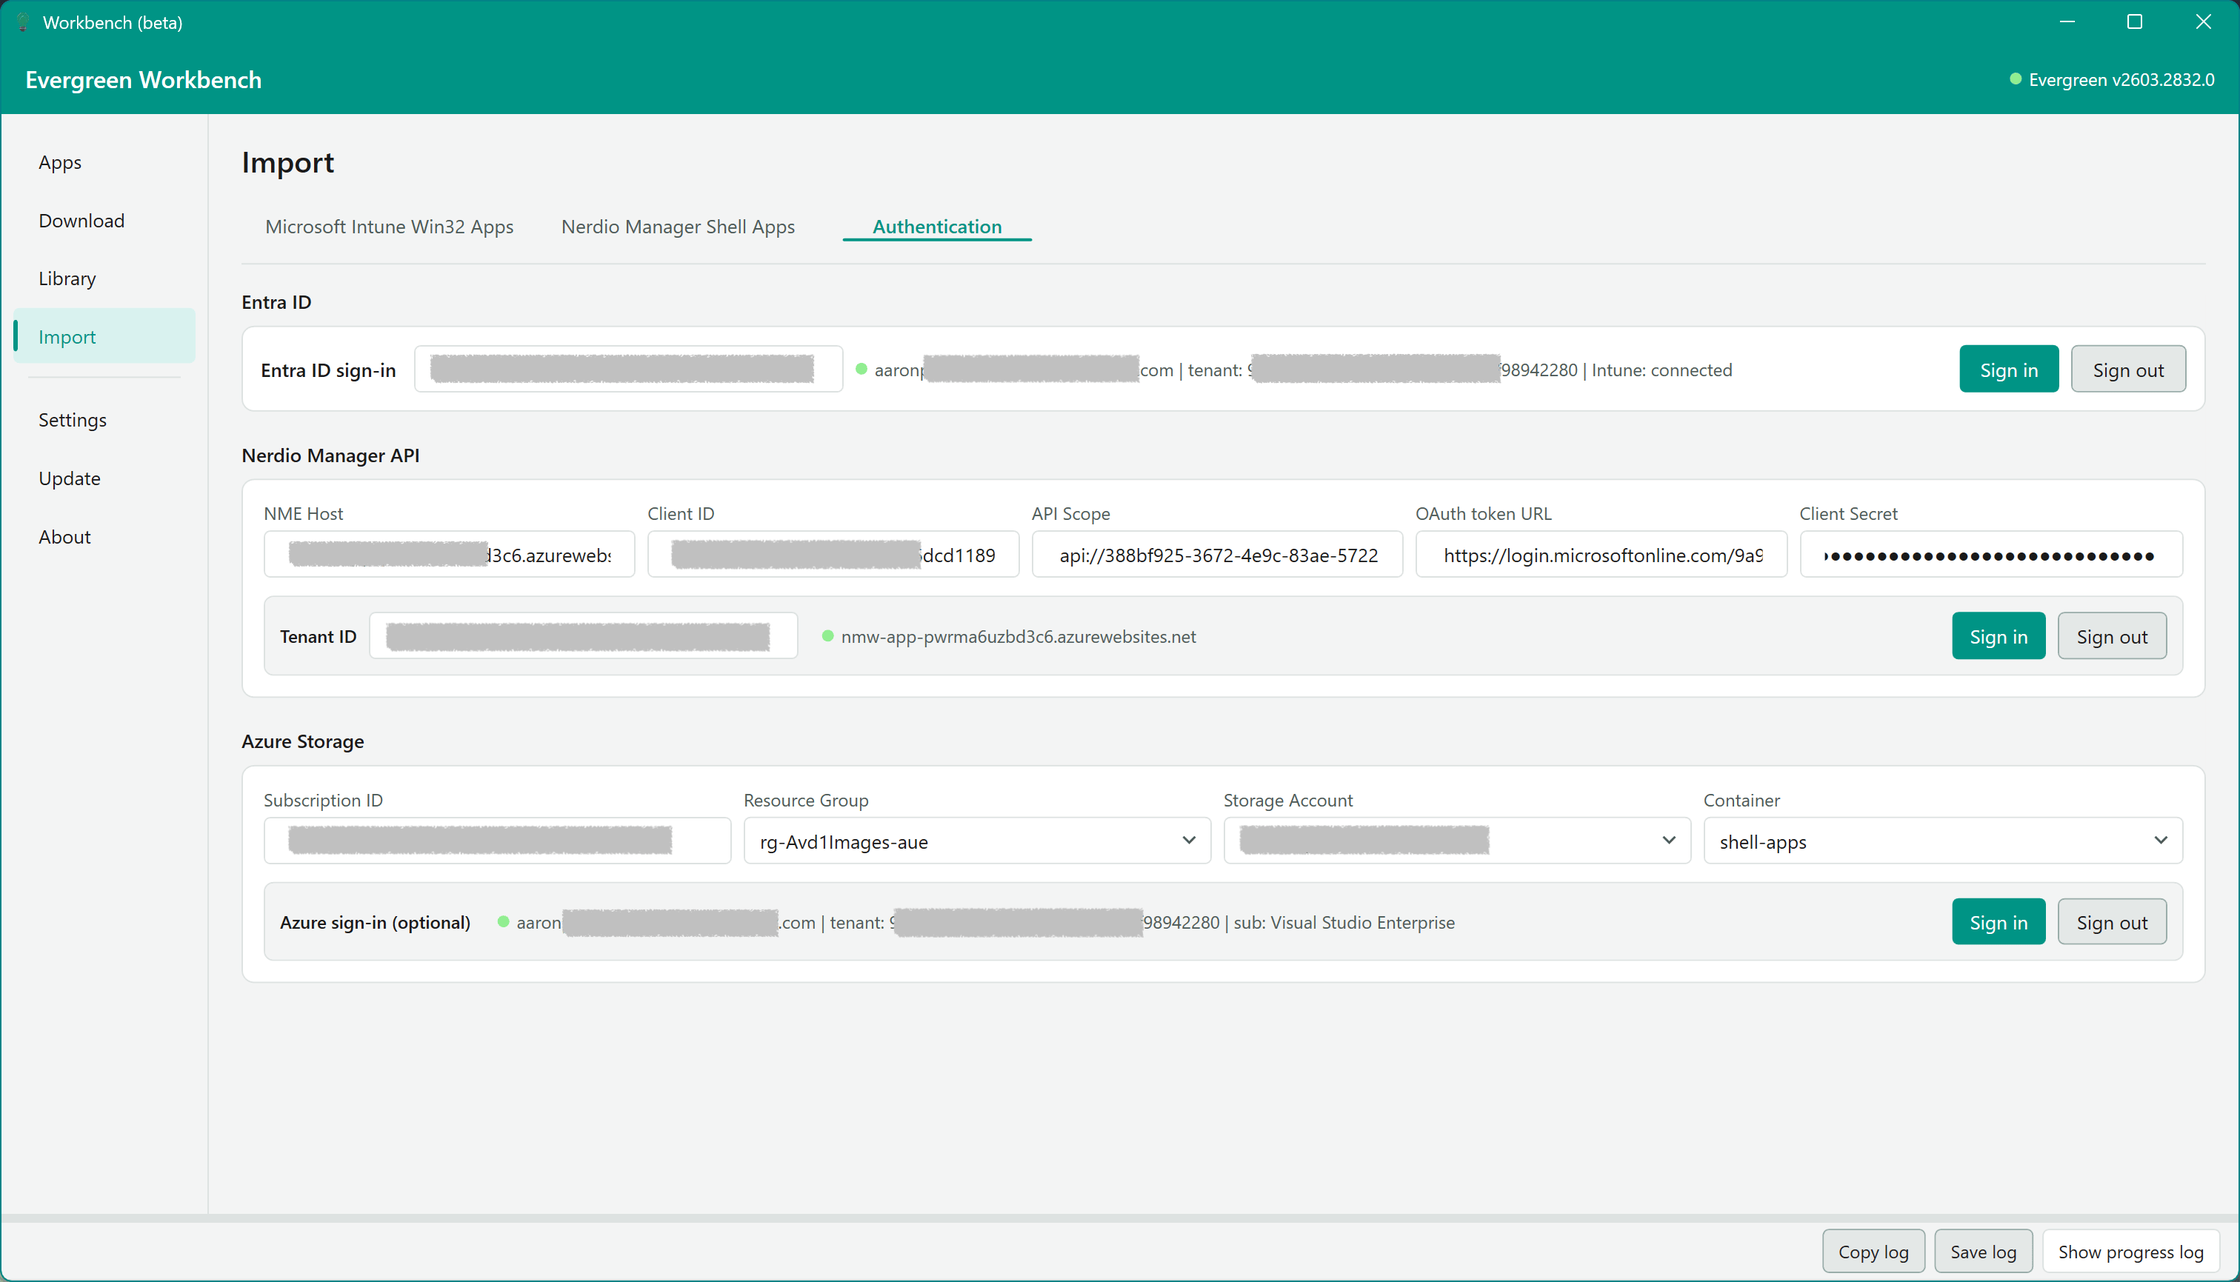
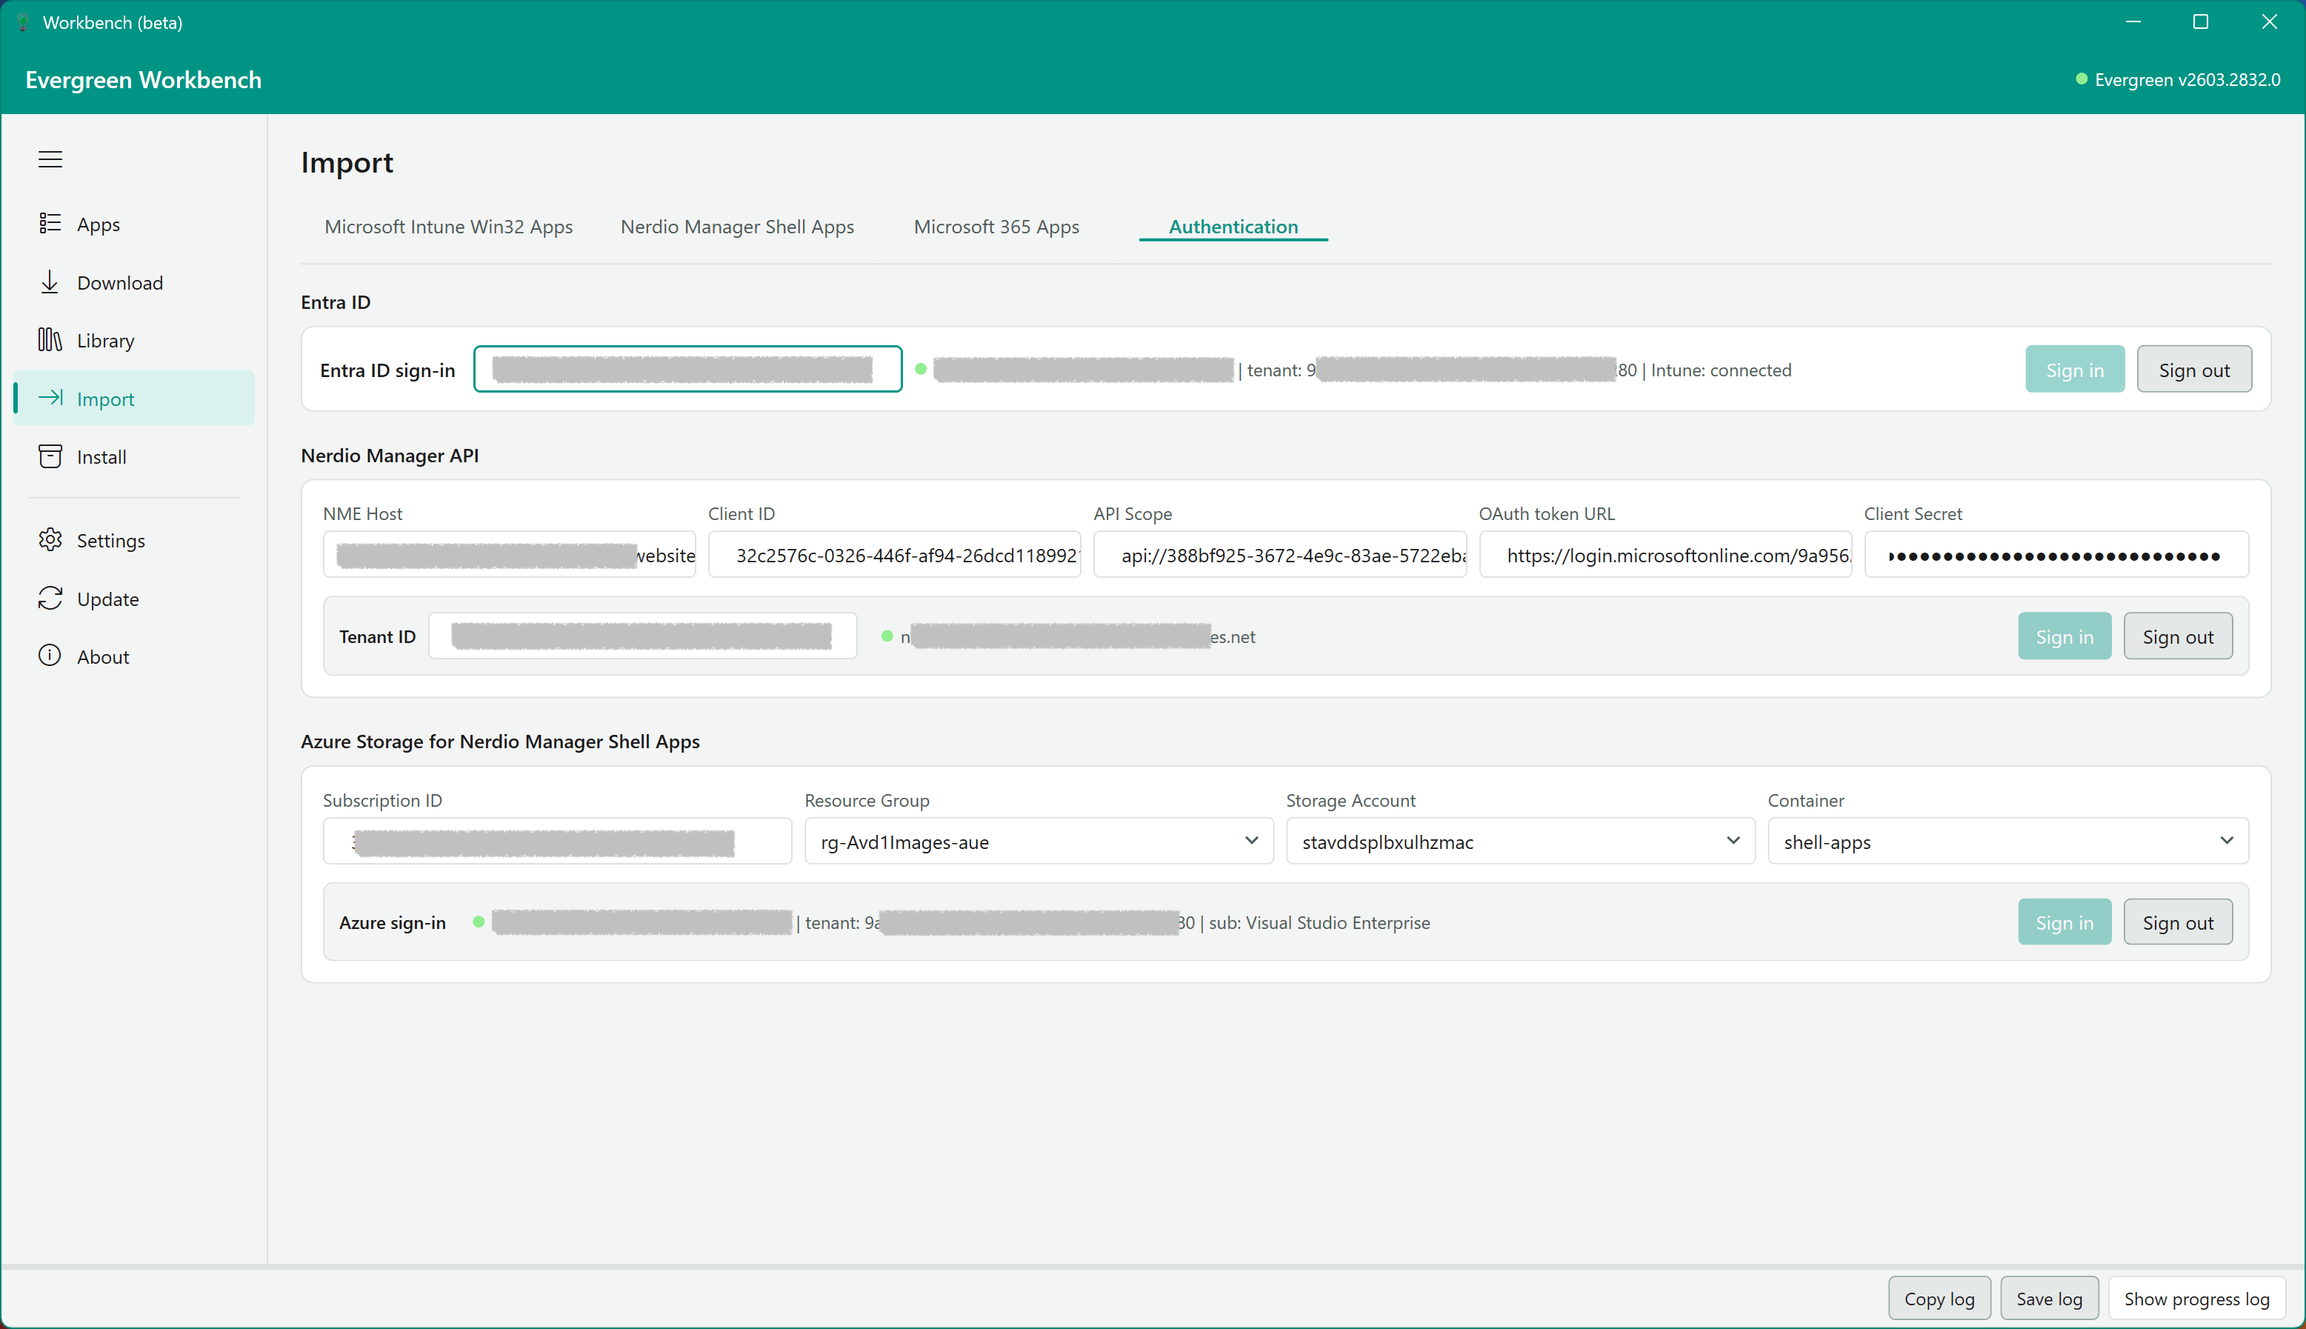
Update workbench documentation

diff --git a/docs/workbench-desktop.md b/docs/workbench-desktop.md
@@ -16,21 +16,23 @@ Import-Module EvergreenUI
 Start-EvergreenWorkbench
 ```
 
-The UI opens to the Apps view by default. You can change the startup view and other preferences in [Settings](#settings).
+The Workbench restores the last view you used when you reopen it. If the saved view is disabled, it falls back to the Apps View.
 
-## Apps view
+## Apps View
 
-The Apps view displays all 500+ applications supported by the Evergreen module in a searchable data grid. Select an application from the list on the left to view version and download metadata returned by `Get-EvergreenApp`.
+The Apps View displays all 500+ applications supported by the Evergreen module in a searchable data grid. Select an application from the list on the left to view version and download metadata returned by `Get-EvergreenApp`.
 
-![The Apps view showing Microsoft applications with channel, release, architecture, and file type filters](/img/ui/evergreen-workbench-apps.png)
+![The Apps View showing Microsoft applications with channel, release, architecture, and Type filters](/img/ui/evergreen-workbench-apps.png)
 
 Use the search box at the top of the application list to filter by name. The data grid on the right shows version details including Version, Date, Channel, Release, Architecture, Type, and URI.
 
-### Dynamic filters
+You can star frequently used applications from the left list. Favourites are pinned to the top of the list and saved in your local Workbench settings.
 
-When you select an application, the filter panel updates automatically based on the properties that application returns. For example, selecting Adobe Acrobat Reader DC displays filters for Language, Architecture, and File type.
+### Dynamic Filters
 
-![Dynamic filters for Adobe Acrobat Reader DC showing Language, Architecture, and File type controls](/img/ui/evergreen-workbench-apps-filter.png)
+When you select an application, the filter panel updates automatically based on the properties that application returns. For example, selecting Adobe Acrobat Reader DC displays filters for Language, Architecture, and Type.
+
+![Dynamic Filters for Adobe Acrobat Reader DC showing Language, Architecture, and Type controls](/img/ui/evergreen-workbench-apps-filter.png)
 
 Available filter properties vary by application and can include:
 
@@ -45,13 +47,17 @@ Available filter properties vary by application and can include:
 
 Select values in the filter panel to narrow down the results. Use **Clear filters** to reset, or **Export to CSV** to save the filtered results.
 
-## Download view
+The versions grid supports column sorting. Click a column header to sort ascending, then click again to sort descending.
 
-To download application installers, select versions in the Apps view and click **Add to download queue**. Switch to the Download view to manage and start downloads.
+You can also right-click a column header to show or hide optional columns. Structural columns such as Version and URI remain visible.
 
-![The Download view showing a queued download for Adobe Acrobat Reader DC](/img/ui/evergreen-workbench-download.png)
+## Download View
 
-The Download view shows the queue with Status, App, Version, Architecture, and URI columns. Use the toolbar to:
+To download application installers, select versions in the Apps View and click **Add to download queue**. Switch to the Download View to manage and start downloads.
+
+![The Download View showing a queued download for Adobe Acrobat Reader DC](/img/ui/evergreen-workbench-download.png)
+
+The Download View shows the queue with Status, App, Version, Architecture, URI, and Path columns. The Path column is filled after a download completes. Use the toolbar to:
 
 - **Remove selected** - remove items from the queue
 - **Clear queue** - remove all items
@@ -60,13 +66,15 @@ The Download view shows the queue with Status, App, Version, Architecture, and U
 
 A progress bar at the bottom tracks the current download. Downloads are processed sequentially and in queue order.
 
-## Library view
+The download queue grid supports column sorting.
 
-If you have an existing [Evergreen library](/newlibrary), the Library view provides a GUI for browsing and updating it. Enter or browse to your library path to load the library contents.
+## Library View
 
-![The Library view showing library contents and version details for Microsoft Edge](/img/ui/evergreen-workbench-library.png)
+If you have an existing [Evergreen library](/newlibrary), the Library View provides a GUI for browsing and updating it. Enter or browse to your library path to load the library contents.
 
-The Library view displays:
+![The Library View showing library contents and version details for Microsoft Edge](/img/ui/evergreen-workbench-library.png)
+
+The Library View displays:
 
 - **Library contents** - a table of applications in the library with app name, version count, and path
 - **Selected app details** - version, URI, type, size, SHA256 hash, release, and file path for each version of the selected application
@@ -75,19 +83,19 @@ Use the toolbar to:
 
 - **Browse** - select a library path
 - **Open folder** - open the library directory
-- **New library** - create a new Evergreen library (`New-EvergreenLibrary`)
-- **Refresh library** - reload the library contents (`Get-EvergreenLibrary`)
-- **Update library** - download the latest versions into the library (`Start-EvergreenLibraryUpdate`)
+- **New Library** - create a new Evergreen library (`New-EvergreenLibrary`)
+- **Refresh Library** - reload the library contents (`Get-EvergreenLibrary`)
+- **Update Library** - download the latest versions into the library (`Start-EvergreenLibraryUpdate`)
 
-## Install view
+## Install View
 
 ::: warning In development
 The Install feature is in development and may not function as expected. Package definition details will be documented at a later date.
 :::
 
-The Install view loads package definitions from a directory, compares the defined application versions against what is currently installed on the machine, and allows you to install or update applications directly.
+The Install View loads package definitions from a directory, compares the defined application versions against what is currently installed on the machine, and allows you to install or update applications directly.
 
-![The Install view comparing installed and latest application versions](/img/ui/evergreen-workbench-install.png)
+![The Install View comparing installed and latest application versions](/img/ui/evergreen-workbench-install.png)
 
 Each row shows:
 
@@ -109,9 +117,11 @@ Use the toolbar to:
 If the Workbench is not running elevated, installers may prompt for UAC elevation.
 :::
 
-## Import tab
+## Import Tab
 
-The Import tab provides workflows for importing application packages into external platforms. It has three sub-tabs: **Microsoft Intune Win32 Apps**, **Nerdio Manager Shell Apps**, and **Authentication**.
+The Import Tab provides workflows for importing application packages into external platforms. It has four sub-tabs: **Microsoft Intune Win32 Apps**, **Nerdio Manager Shell Apps**, **Microsoft 365 Apps**, and **Authentication**.
+
+Import-related modules are loaded when you first open the Import Tab. Until required modules finish loading, sign-in and import actions remain disabled.
 
 ### Microsoft Intune Win32 Apps
 
@@ -121,9 +131,18 @@ The Intune import feature is in development and is not yet functional.
 
 Browse to a directory containing Intune package definitions, load them, and compare against the Win32 apps currently in your Intune tenant.
 
-![The Import tab showing Microsoft Intune Win32 Apps with package definitions and import status](/img/ui/evergreen-workbench-import-intune.png)
+![The Import Tab showing Microsoft Intune Win32 Apps with package definitions and import status](/img/ui/evergreen-workbench-import-intune.png)
 
-The data grid shows each package definition with its publisher, Intune version (if already imported), definition version, match status, update requirements, and available action (Import as new app or update existing). Use **Import as new Win32 app** to push selected packages to Intune.
+The data grid shows reconciliation rows with these columns: App, Publisher, Intune Version, Latest, Status, and Action.
+
+Action values indicate what to do next:
+
+- **Import new app** - definition is not in Intune yet
+- **Import new version and supersede** - app exists in Intune and needs an update
+- **Fix in definition** - duplicate definition GUID or other definition issue
+- **-** - no action required
+
+Use **Compare with Microsoft Intune** to build the reconciliation list, then use **Import Win32 app** to process selected actionable rows.
 
 ### Nerdio Manager Shell Apps
 
@@ -133,58 +152,94 @@ The Nerdio Manager Shell Apps import works but has not been validated in product
 
 Browse to a directory containing Nerdio Manager Shell App definitions, load them, and compare against the Shell Apps in your Nerdio Manager environment.
 
-![The Import tab showing Nerdio Manager Shell Apps with version comparison](/img/ui/evergreen-workbench-import-nerdio.png)
+![The Import Tab showing Nerdio Manager Shell Apps with version comparison](/img/ui/evergreen-workbench-import-nerdio.png)
 
-The data grid shows the status of each definition - whether it is matched to an existing Shell App, whether an update is available, and the current versus latest Evergreen version. The status bar summarises the comparison results. Use the toolbar to add new versions to existing Shell Apps or import new ones.
+The data grid shows the status of each definition - whether it is matched to an existing Shell App, whether an update is available, and the current versus latest Evergreen version. The status bar summarises the comparison results.
+
+Use **Compare with Nerdio Manager** to build the reconciliation list. Then use **Add new version to existing Shell App** or **Import Shell App** for the selected row.
+
+### Microsoft 365 Apps
+
+::: warning In development
+The Microsoft 365 Apps import feature is in development and should be validated in your environment before production use.
+:::
+
+Browse to a folder containing Office Deployment Tool XML configuration files and click **Load configurations**.
+
+![The Import Tab showing Microsoft 365 Apps package configurations and import actions](/img/ui/evergreen-workbench-import-m365.png)
+
+The grid shows each configuration with:
+
+- **Filename** - XML file name
+- **Display Name** - generated app display name
+- **Products** - parsed products and target details
+- **Status** - configuration validation result (for example Valid, No ID, or Invalid XML)
+
+Use the action bar to configure packaging and import:
+
+- **Channel** - selects the Microsoft 365 update channel used for package generation
+- **Company name** - required value injected into package metadata
+- **Import Nerdio Manager Shell App** - builds and imports the package to Nerdio Manager
+- **Import Microsoft Intune Win32 App** - builds and imports the package to Intune
+
+Connection indicators on this tab show both Microsoft Intune and Nerdio Manager authentication status.
 
 ### Authentication
 
-The Authentication sub-tab manages connections to Entra ID, the Nerdio Manager API, and Azure Storage. These connections are required for the Intune and Nerdio Manager import workflows.
+The Authentication sub-tab manages connections to Entra ID, the Nerdio Manager API, and Azure Storage. These connections are required for Intune, Nerdio Manager, and Microsoft 365 Apps import workflows.
 
 ![The Authentication sub-tab showing Entra ID, Nerdio Manager API, and Azure Storage connections](/img/ui/evergreen-workbench-import-auth.png)
 
 Configure the following:
 
-- **Entra ID** - sign in with your tenant ID to connect to Microsoft Intune
+- **Entra ID** - enter an optional tenant ID, then use **Sign in** to connect to Microsoft Intune
 - **Nerdio Manager API** - provide the NME Host, Client ID, API Scope, OAuth token URL, Client Secret, and Tenant ID to connect to Nerdio Manager
-- **Azure Storage** - optionally configure a Subscription, Resource Group, Storage Account, and Container for storing application packages
+- **Azure Storage for Nerdio Manager Shell Apps** - optionally configure a Subscription ID, Resource Group, Storage Account, and Container for storing application packages
 
-## Update view
+## Update View
 
-The Update view runs `Update-Evergreen` from the GUI to synchronise the local application definitions cache with the latest release from the [evergreen-apps](https://github.com/EUCPilots/evergreen-apps) repository.
+The Update View runs `Update-Evergreen` from the GUI to synchronise the local application definitions cache with the latest release from the [evergreen-apps](https://github.com/EUCPilots/evergreen-apps) repository.
 
-![The Update view showing Update-Evergreen output with hash validation and sync progress](/img/ui/evergreen-workbench-update.png)
+![The Update View showing Update-Evergreen output with hash validation and sync progress](/img/ui/evergreen-workbench-update.png)
 
-Click **Run Update-Evergreen** to start the update. The output panel displays timestamped log messages showing the cache check, download, hash validation, and sync progress. Use **Clear output** to reset the log.
+Click **Run Update-Evergreen** to start the update. The output panel displays timestamped log messages showing the cache check, download, hash validation, and sync progress.
+
+## About View
+
+The About View shows the loaded EvergreenUI module metadata including name, version, prerelease label, project URI, and description.
+
+![The About View showing module metadata and required modules](/img/ui/evergreen-workbench-about.png)
+
+It also includes a **Required Modules** section that lists module dependencies used by import workflows and shows whether each module is installed.
 
 ## Settings
 
-The Settings view configures general preferences and provider-specific options.
+The Settings View configures general preferences and provider-specific options.
 
-![The Settings view showing General, Nerdio Manager, and Microsoft Intune configuration](/img/ui/evergreen-workbench-settings.png)
+![The Settings View showing General, Microsoft Intune, and Logs configuration](/img/ui/evergreen-workbench-settings.png)
 
 ### General
 
 - **Download output path** - default directory for downloaded application installers
 - **Evergreen apps path** - path to the local Evergreen application definitions cache (read-only, shows the value from `Get-EvergreenAppsPath`)
-- **Log verbosity** - set the log output level (Normal or Verbose)
 - **Theme** - switch between Light and Dark themes
 - **Show Import tab** / **Show Install tab** - toggle visibility of the Import and Install views
-- **Startup view** - choose which view opens when the Workbench launches (Apps, Download, Library, etc.)
 - **App version cache** - cached version data is stored locally and loaded when you select an app; use **Clear cache** to force a fresh query on next selection
-
-### Nerdio Manager
-
-- **NerdioShellApps.psm1 path** - path to the Nerdio Shell Apps module file; use **Browse** to locate it and **Reload** to re-import
+- **Open cache folder** - open the local app version cache folder
 
 ### Microsoft Intune
 
 - **IntuneWin32App module** - status indicator showing whether the IntuneWin32App module is loaded; use **Reload** to re-import
 - **Package output path** - directory for Intune Win32 package output files
 
-## Log panel
+### Logs
 
-The log panel at the bottom of the window displays timestamped messages at three levels:
+- **Open logs folder** - open the local EvergreenUI logs directory
+- **Clear logs** - delete local `.log` files from the EvergreenUI logs directory
+
+## Log Panel
+
+The Log Panel at the bottom of the window displays timestamped messages at three levels:
 
 - **Info** - progress updates and status messages
 - **Warning** - non-critical issues (e.g., a download URL returned a redirect)

diff --git a/docs/workbench-web.md b/docs/workbench-web.md
@@ -3,7 +3,7 @@ layout: doc
 ---
 # Using the Web Workbench
 
-The Evergreen Web Workbench is a browser-based application for exploring application version data tracked by the [Evergreen](/about) module. It requires no installation - open it at:
+The Evergreen Web Workbench is a browser-based application for exploring application version data tracked by the [Evergreen](/about) module. It is available on any platform - open it at:
 
 **[eucpilots.com/workbench](https://eucpilots.com/workbench)**
 
